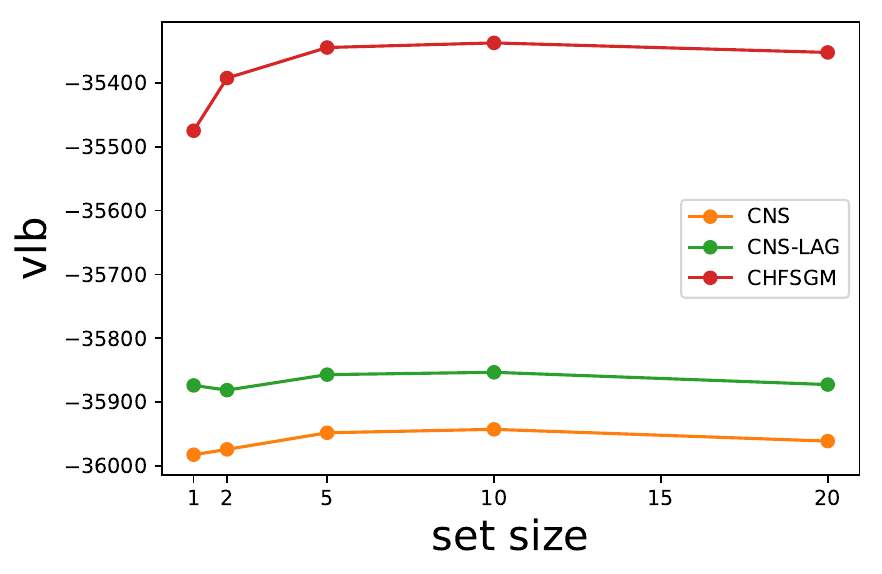
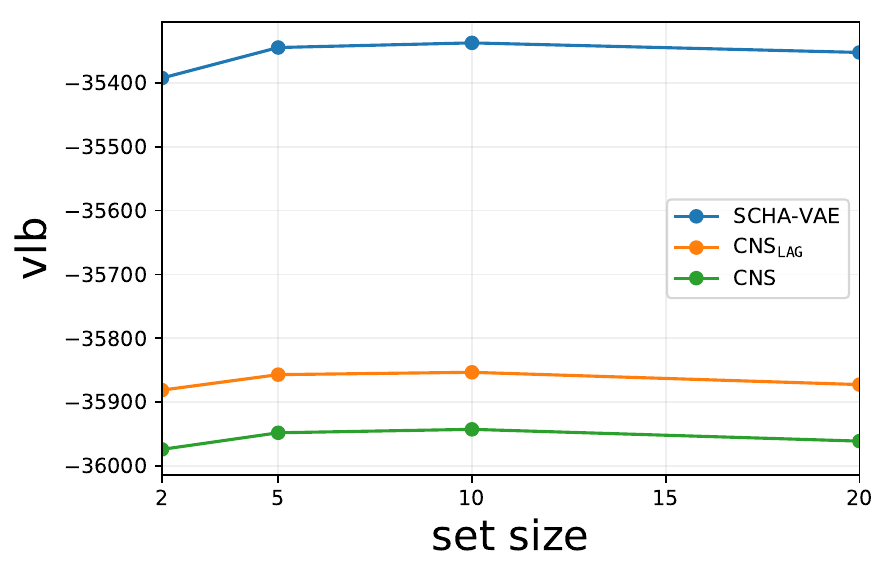
Update page

diff --git a/index.html b/index.html
@@ -1,7 +1,8 @@
 <!DOCTYPE html>
 <html>
-    <head>
-        <meta http-equiv="Content-Type" content="text/html; charset=UTF-8">
+
+<head>
+    <meta http-equiv="Content-Type" content="text/html; charset=UTF-8">
     <!-- Global site tag (gtag.js) - Google Analytics
     <script async="" src="assets/img/js"></script>
     <script>
@@ -31,7 +32,8 @@
             <div class="row">
                 <div class="col-md-6">
                     <h5 class="text-center" style="margin: 0px;">
-                        <a class="text-center" href="https://georgosgeorgos.github.io/" target="_blank">Giorgio Giannone</a></h5>
+                        <a class="text-center" href="https://georgosgeorgos.github.io/" target="_blank">Giorgio Giannone</a>
+                    </h5>
                     <h6 class="text-center"></h6>
                 </div>
                 <div class="col-md-6">
@@ -57,19 +59,20 @@
             </div>
         </div>
         <div class="buttons" style="margin-bottom: 8px;">
-            <a class="btn btn-light" role="button" href="">Paper</a>
-            <a class="btn btn-light" role="button" href="https://github.com/georgosgeorgos/hierarchical-few-shot-generative-models" target="_blank">GitHub</a></div>
+            <a class="btn btn-light" role="button" href="https://arxiv.org/abs/2110.12279" target="_blank">Paper</a>
+            <a class="btn btn-light" role="button" href="https://github.com/georgosgeorgos/hierarchical-few-shot-generative-models" target="_blank">GitHub</a>
+        </div>
         <!-- <div class="container" style="max-width: 540px;">
             <div class="row">
                 <div class="col-md-12 text-center">
                     <img src="assets/img/ns_gm.png" style="width: 100%;margin-bottom: 8px;" alt="Graphical model for a Neural Statistician."><em></em>
                 </div> -->
-                <!-- <div class="col-md-12 text-center">
+        <!-- <div class="col-md-12 text-center">
                     <img src="assets/img/hfsgm_gm_white.png" style="width: 100%;margin-bottom: 8px;" alt="Graphical model for Hierarchical Few-Shot Generative Models.">
                     <em>Generative and Inference Models for a Hierarchical Few-Shot Generative Model.</em>
                 </div>
             </div> -->
-        </div>
+    </div>
     </div>
     <!-- <hr style="max-width: 540px;"> -->
     <!-- <div class="container" style="max-width: 540px;">
@@ -83,12 +86,22 @@
     <div class="container" style="max-width: 540px;">
         <div class="row">
             <div class="col-md-12">
-                <h2>Summary</h2>
+                <h2>Contributions</h2>
                 <ul>
-                    <li>Generalize the <a href="https://arxiv.org/abs/1606.02185" target="_blank">Neural Statistician</a> 
-                        to a full hierarchical model with learnable aggregation.</li>
-                    <li>Quantitative evaluation of generative capacities, adaptation-free transfer and generalization.</li>
-                    <li>Iterative, conditional and unconditional sampling strategies.</li>
+                    <li>We increase the input set representation expressivity of
+                        latent variable models for sets through hierarchical in-
+                        ference and a learnable aggregation mechanism.
+                    </li>
+                    <li>We explore forward and iterative sampling strategies for
+                        the marginal and the predictive distributions implicitly
+                        defined by few-shot generative models.
+                    </li>
+                    <li>We study the few-shot transfer for this new class of
+                        models, exploring generalization to set cardinality, new
+                        classes and new datasets, providing evidence that a hier-
+                        archical set representation increases the expressivity of
+                        few-shot generative models.
+                    </li>
                 </ul>
             </div>
         </div>
@@ -97,10 +110,13 @@
     <div class="container" style="max-width: 540px;">
         <div class="row">
             <div class="col-md-6 text-center">
-                <img src="assets/img/ns_gm.png" style="width: 100%;margin-bottom: 8px;" alt="Graphical model for Hierarchical Few-Shot Generative Models."><em>Generative and Inference Models for a Neural Statistician.</em>
+                <img src="assets/img/ns_gm.png" style="width: 100%;margin-bottom: 8px;"
+                    alt="Graphical Model for Hierarchical Few-Shot Generative Models."><em>Generative and Inference Models for a Neural Statistician.</em>
             </div>
             <div class="col-md-6 text-center">
-                <img src="assets/img/hfsgm_gm_white.png" style="width: 100%;margin-bottom: 8px;" alt="Graphical model for Hierarchical Few-Shot Generative Models."><em>Generative and Inference Models for a Hierarchical Few-Shot Generative Model.</em>
+                <img src="assets/img/hfsgm_gm_white.png" style="width: 100%;margin-bottom: 8px;"
+                    alt="Graphical model for Hierarchical Few-Shot Generative Models."><em>Generative and Inference Models for a Hierarchical Few-Shot
+                    Generative Model.</em>
             </div>
         </div>
     </div>
@@ -110,77 +126,70 @@
             <div class="col-md-12">
                 <h2>Abstract</h2>
                 <p>A few-shot generative model should be able to generate data from a distribution by only observing a limited set of examples. 
-                    In few-shot learning the model is trained on data from many sets from different distributions sharing some underlying properties such as sets of characters from different alphabets or sets of images of different type objects. 
-                    We study a latent variables approach that extends the <a href="https://arxiv.org/abs/1606.02185" target="_blank">Neural Statistician</a> to a fully hierarchical approach with an attention-based point to set-level aggregation. 
-                    We extend the previous work to iterative data sampling, likelihood-based model comparison, and adaptation-free out of distribution generalization. 
-                    Our results show that the hierarchical formulation better captures the intrinsic variability within the sets in the small data regime.
-                    With this work we generalize deep latent variable approaches to few-shot learning, taking a step towards large-scale few-shot generation with a formulation that readily can work with current state-of-the-art deep generative models.
-                    <!-- A few-shot generative model should be able to generate data from a distribution from only observing 
-                    a limited set of examples from the distribution. In the few-shot learning set-up the model is trained 
-                    on data from many sets from different distributions sharing some underlying properties such as sets of characters 
-                    from different alphabets or sets of images of different type objects. We study a latent variables approach that extends 
-                    the <a href="https://arxiv.org/abs/1606.02185" target="_blank">Neural Statistician</a> to a fully hierarchical approach with an attention-based data point to set level latent aggregation. 
-                    We also extend the previous work to iterative data sampling and likelihood based model comparison. 
-                    We study adaptation-free out of distribution generation and generalization. 
-                    Our results show that the hierarchical formulation is better at capturing the intrinsic variability within the set. 
-                    With this work we aim to generalize deep latent variable approaches to few-shot learning, taking a step towards 
-                    large scale few-shot generation with a formulation that readily can work with current state of the art deep generative models.<br> -->
+                    In few-shot learning the model is trained on data from many sets from different distributions sharing some underlying 
+                    properties such as sets of characters from different alphabets or sets of images of different type objects. 
+                    We extend current latent variable models for sets to a fully hierarchical approach with an attention-based point 
+                    to set-level aggregation and call our approach SCHA-VAE for Set-Context-Hierarchical-Aggregation Variational Autoencoder. 
+                    We explore iterative data sampling, likelihood-based model comparison, and adaptation-free out of distribution generalization. 
+                    Our results show that the hierarchical formulation better captures the intrinsic variability within the sets in the small 
+                    data regime. With this work we generalize deep latent variable approaches to few-shot learning, taking a step towards 
+                    large-scale few-shot generation with a formulation that readily can work with current state-of-the-art deep generative models.
                 </p>
             </div>
         </div>
     </div>
-    <hr style="max-width: 540px;">
+    <!-- <hr style="max-width: 540px;">
     <div class="container" style="max-width: 540px;">
         <div class="row">
-                <h2>Learnable Aggregation</h2>
-                <p> Sample formation in a Convolutional Neural Statistician with learnable aggregation. 
-                    For each sample (black background) we plot the attention bars over the input sets (in white background) for four different heads.
-                </p>
-                <div class="col-md-6">
-                    <img class="img-fluid" src="assets/img/attention-20210418-144025-ctns-0.png" style="margin-bottom: 8px;">
-                    <em class="text-center" style="display: block;"></em>
-                </div>
-                <div class="col-md-6">
-                    <img class="img-fluid" src="assets/img/algo_lag.png" style="margin-bottom: 8px;">
-                    <em class="text-center" style="display: block;"></em>
-                </div>
+            <h2>Learnable Aggregation</h2>
+            <p> Sample formation in a Convolutional Neural Statistician with learnable aggregation.
+                For each sample (black background) we plot the attention bars over the input sets (in white background) for four different heads.
+            </p>
+            <div class="col-md-6">
+                <img class="img-fluid" src="assets/img/attention-20210418-144025-ctns-0.png" style="margin-bottom: 8px;">
+                <em class="text-center" style="display: block;"></em>
+            </div>
+            <div class="col-md-6">
+                <img class="img-fluid" src="assets/img/algo_lag.png" style="margin-bottom: 8px;">
+                <em class="text-center" style="display: block;"></em>
+            </div>
         </div>
-    </div>
+    </div> -->
     <hr style="max-width: 540px;">
     <div class="container" style="max-width: 540px;">
         <div class="row">
             <div class="col-md-12">
                 <h2>Generative Metrics</h2>
-                <p>Generalization on disjoint Omniglot classes. 
-                    Models trained on set size 5 and results for 
-                   a VAE, NSs with mean/max/learnable aggregation (MEAN/MAX/LAG) 
-                   convolutional variants (C)
-                   and for a HFSGM with a hierarchy over c.
+                <p>Generalization on disjoint Omniglot classes.
+                    Models trained on set size 5 and results for
+                    a VAE, NSs with mean/learnable aggregation (MEAN/LAG)
+                    convolutional variants (C)
+                    and for a SCHA-VAE with a hierarchy over c.
                 </p>
                 <img class="img-fluid" src="assets/img/table_generative.png" style="margin-bottom: 8px;">
                 <em class="text-center" style="display: block;"></em>
             </div>
         </div>
         <div class="row">
-            <div class="col-md-4">
+            <div class="col-md-6">
                 <p></p>
                 <img class="img-fluid" src="assets/img/vlb_set_size_omni.png" style="margin-bottom: 8px;">
                 <em class="text-center" style="display: block;">
-                    Lower-bounds for models trained with input set size 5 varying the test set cardinality from 1 to 20 on Omniglot.
+                    Lower-bounds varying the test set cardinality from 2 to 20 on Omniglot.
                 </em>
             </div>
-            <div class="col-md-4">
+            <!-- <div class="col-md-4">
                 <p></p>
                 <img class="img-fluid" src="assets/img/vlb_2510.png" style="margin-bottom: 8px;">
                 <em class="text-center" style="display: block;">
                     Lower-bounds for models trained with varying input set size (2, 5, 10).
                 </em>
-            </div>
-            <div class="col-md-4">
+            </div> -->
+            <div class="col-md-6">
                 <p></p>
                 <img class="img-fluid" src="assets/img/vlb_set_size_celeba.png" style="margin-bottom: 8px;">
                 <em class="text-center" style="display: block;">
-                    Lower-bounds for models trained with input set size 5 varying the test set cardinality from 1 to 20 on CelebA.
+                    Lower-bounds varying the test set cardinality from 2 to 20 on CelebA.
                 </em>
             </div>
         </div>
@@ -191,62 +200,66 @@
             <div class="col-md-12">
                 <h2>Transfer</h2>
                 <p>
-                    Models trained on Omniglot with set size 5 and tested on MNIST, DOUBLE-MNIST and TRIPLE-MNIST 
-                    (from left to right) with different set size. 
-                    Models with learnable aggregation (LAG) can adapt better to the new datasets. 
+                    Models trained on Omniglot with set size 5 and tested on MNIST, DOUBLE-MNIST and TRIPLE-MNIST
+                    (from left to right) with different set size.
+                    SCHA-VAE with learnable aggregation (LAG) adapts better to the new datasets.
                 </p>
-                <img class="img-fluid" src="assets/img/table_transfer.png" style="margin-bottom: 8px;"><em class="text-center" style="display: block;"></em>
-        </div>
-        <div class="row">
-            <div class="col-md-4">
-                <!-- <p></p> -->
-                <img class="img-fluid" src="assets/img/transfer_mnist.png" style="margin-top: 16px;margin-bottom: 8px;">
-                <em class="text-center" style="display: block;">Transfer on MNIST.</em>
             </div>
-            <div class="col-md-4">
-                <!-- <p></p> -->
-                <img class="img-fluid" src="assets/img/transfer_double.png" style="margin-top: 16px;margin-bottom: 8px;">
-                <em class="text-center" style="display: block;">Transfer on Double-MNIST.</em>
-            </div>
-            <div class="col-md-4">
-                <!-- <p></p> -->
-                <img class="img-fluid" src="assets/img/transfer_triple.png" style="margin-top: 16px;margin-bottom: 8px;">
-                <em class="text-center" style="display: block;">Transfer on Triple-MNIST.</em>
-            </div>
-        </div>
-    </div>
-    <hr style="max-width: 540px;">
-    <div class="container" style="max-width: 540px;">
-        <div class="row">
-            <div class="col-md-12">
-                <h2>Sampling</h2>
-                <p>
-                    Given a small set from an unknown character (right on black background), 
-                    we sample the model and then refine iteratively using the inference model. We show 20 iterations from left to right. 
-                    We can see how the generative process refines its guess at each iteration improving c and z in a joint manner.
-                </p>
-                <img class="img-fluid" src="assets/img/sampling-refine.png" style="margin-bottom: 8px;"><em class="text-center" style="display: block;">Iterative sampling.</em>
-                <img class="img-fluid" src="assets/img/sampling-omniglot.png" style="margin-bottom: 8px;"><em class="text-center" style="display: block;">Stochastic Reconstruction, Input Sets, Conditional, Refined, Unconditional sampling on Omniglot.</em>
-                <img class="img-fluid" src="assets/img/sampling-celeba.png" style="margin-bottom: 8px;"><em class="text-center" style="display: block;">Stochastic Reconstruction, Input Sets, Conditional, Refined, Unconditional sampling on CelebA.</em>
-                <!-- <img class="img-fluid" src="assets/img/test.gif" style="margin-bottom: 8px;"><em class="text-center" style="display: block;"></em> -->
+            <div class="row">
+                <div class="col-md-4">
+                    <!-- <p></p> -->
+                    <img class="img-fluid" src="assets/img/transfer_mnist.png" style="margin-top: 16px;margin-bottom: 8px;">
+                    <em class="text-center" style="display: block;">MNIST.</em>
+                </div>
+                <div class="col-md-4">
+                    <!-- <p></p> -->
+                    <img class="img-fluid" src="assets/img/transfer_double.png" style="margin-top: 16px;margin-bottom: 8px;">
+                    <em class="text-center" style="display: block;">Double-MNIST.</em>
+                </div>
+                <div class="col-md-4">
+                    <!-- <p></p> -->
+                    <img class="img-fluid" src="assets/img/transfer_triple.png" style="margin-top: 16px;margin-bottom: 8px;">
+                    <em class="text-center" style="display: block;">Triple-MNIST.</em>
+                </div>
             </div>
         </div>
-        <div class="row">
-            <div class="col-md-6">
-                <p></p>
-                <img class="img-fluid" src="assets/img/test.gif" style="margin-bottom: 8px;"><em class="text-center" style="display: block;"></em>
-            </div>
-            <div class="col-md-6">
-                <p></p> 
-                <img class="img-fluid" src="assets/img/sampling_algo.png" style="margin-bottom: 8px;"><em class="text-center" style="display: block;"></em>
+
+        <hr style="max-width: 540px;">
+        <div class="container" style="max-width: 540px;">
+            <div class="row">
+                <div class="col-md-12">
+                    <h2>Sampling</h2>
+                    <p>
+                        Given a small set from an unknown character (right on black background),
+                        we sample the model and then refine iteratively using the inference model. We show 20 iterations from left to right.
+                        We can see how the generative process refines its guess at each iteration.
+                    </p>
+                    <img class="img-fluid" src="assets/img/sampling-refine.png" style="margin-bottom: 8px;"><em class="text-center"
+                        style="display: block;">Iterative sampling.</em>
+                    <img class="img-fluid" src="assets/img/sampling-omniglot.png" style="margin-bottom: 8px;"><em class="text-center"
+                        style="display: block;">Stochastic reconstruction, input sets, conditional, refined, unconditional sampling on Omniglot.</em>
+                    <img class="img-fluid" src="assets/img/sampling-celeba.png" style="margin-bottom: 8px;"><em class="text-center"
+                        style="display: block;">Stochastic reconstruction, input sets, conditional, unconditional sampling on CelebA.</em>
+                    <!-- <img class="img-fluid" src="assets/img/test.gif" style="margin-bottom: 8px;"><em class="text-center" style="display: block;"></em> -->
+                </div>
             </div>
         </div>
-    </div>
-    <hr style="max-width: 540px;">
+        
+        <hr style="max-width: 540px;">
+        <div class="container" style="max-width: 540px;">
+            
+            <div class="row">
+                <div class="col-md-12 text-center">
+                    <img class="img-fluid" src="assets/img/test.gif" style="margin-bottom: 8px;"><em class="text-center" style="display: block;"></em>
+                </div>
+            </div>
+        </div>
 
-    <script src="https://cdnjs.cloudflare.com/ajax/libs/jquery/3.5.1/jquery.min.js"></script>
-    <script src="https://cdnjs.cloudflare.com/ajax/libs/twitter-bootstrap/4.5.0/js/bootstrap.bundle.min.js"></script>
+        <script src="https://cdnjs.cloudflare.com/ajax/libs/jquery/3.5.1/jquery.min.js"></script>
+        <script src="https://cdnjs.cloudflare.com/ajax/libs/twitter-bootstrap/4.5.0/js/bootstrap.bundle.min.js"></script>
 
 
 
-</body></html>
+</body>
+
+</html>
